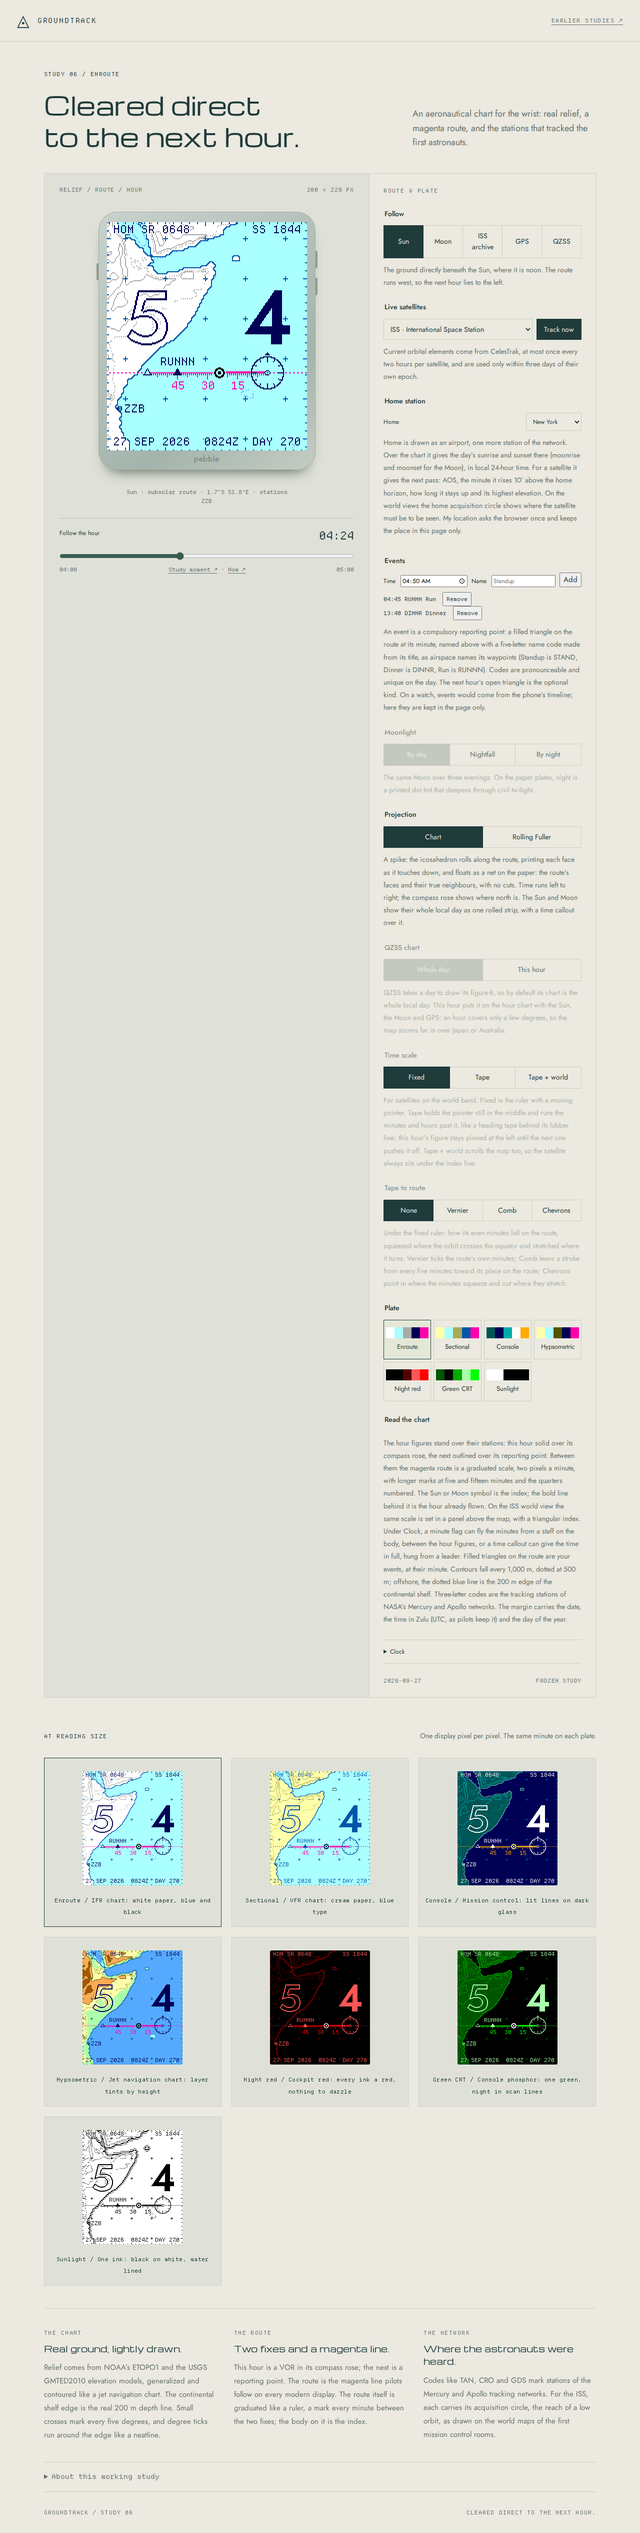
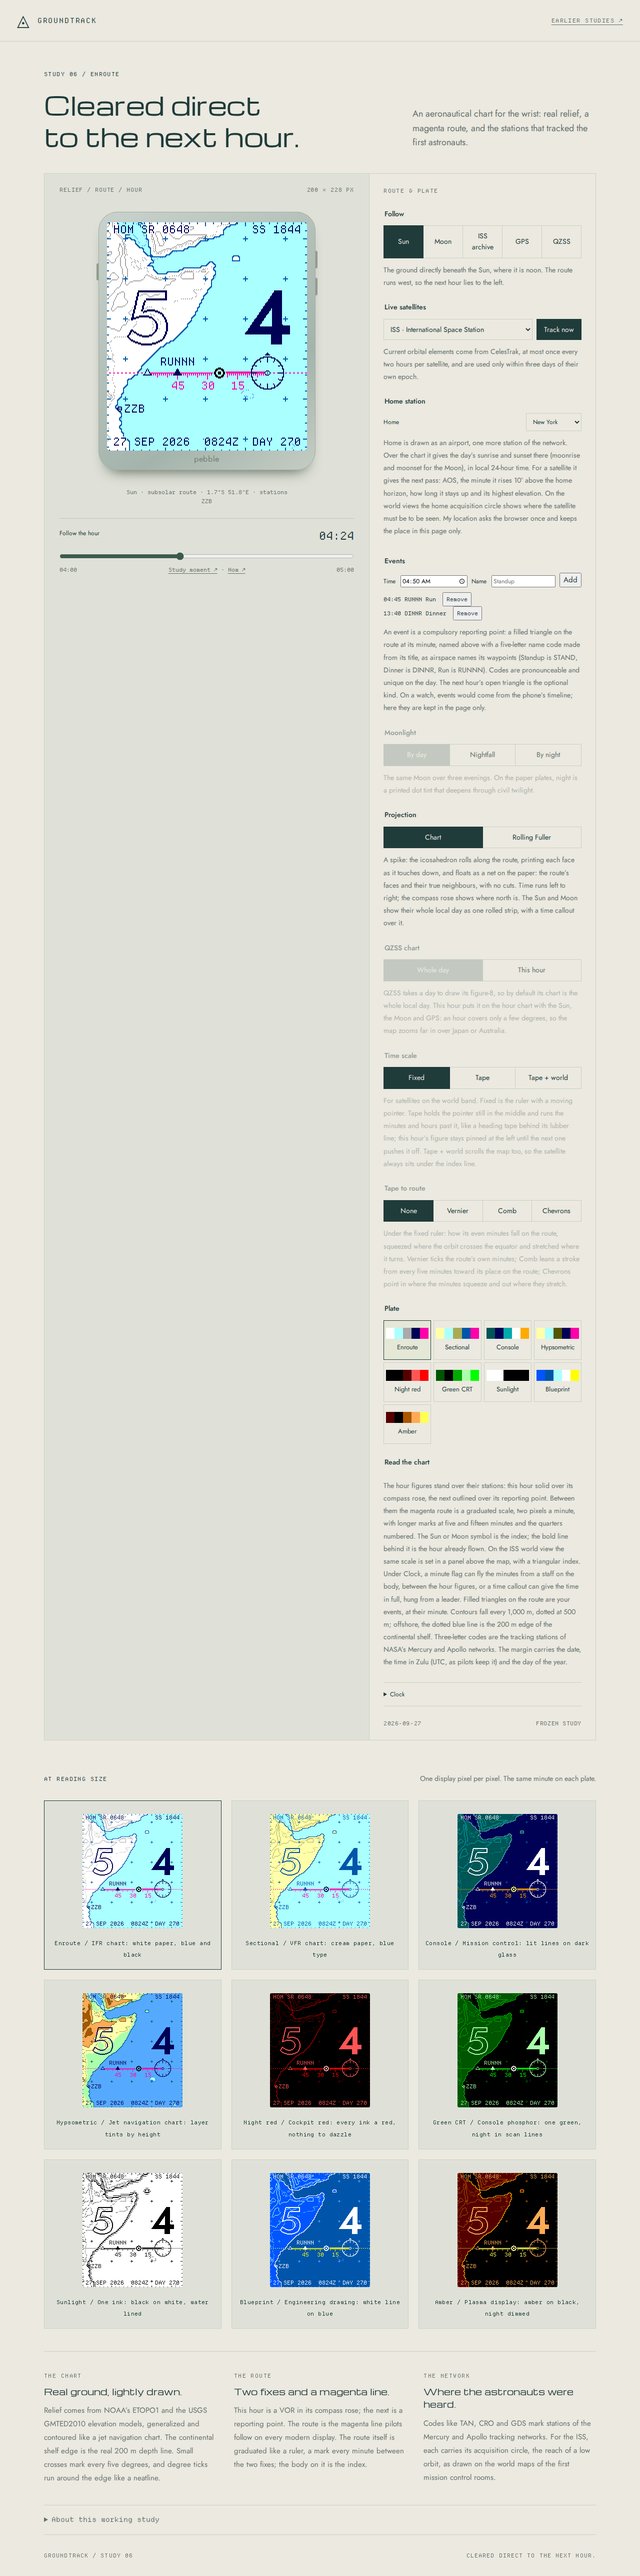
Two more plates: Blueprint and Amber
Blueprint is an engineer's drawing: white linework on a mid blue, land a
lighter blue than the sea, pale cyan contours, the route in yellow
pencil; night deepens the blues. Amber is a plasma display: amber at a
few brightnesses on black, night dimming every ink a step (dusk
dithered between) with the terminator drawn, unlike Night red's dots
or Green CRT's scan lines. Both use the existing plate machinery, so the
watch takes them from tables.bin with no new code; the study keeps 12
scenes (it shows a proof of every plate). tools/render-matrix.mjs draws
every configuration against every plate in one sheet.

diff --git a/src/plates.js b/src/plates.js
@@ -54,7 +54,22 @@ export const PLATES={
     water:inks(['#FFFFFF','#FFFFFF','#FFFFFF']),land:inks(['#FFFFFF','#FFFFFF','#FFFFFF']),coast:inks(['#000000','#000000','#000000']),
     contour:inks(['#000000','#000000','#000000']),shelf:inks(['#000000','#000000','#000000']),grid:inks(['#000000','#000000','#000000']),
     route:inks(['#000000','#000000','#000000']),ink:inks(['#000000','#000000','#000000']),mark:inks(['#000000','#000000','#000000']),
-    screen:hex('#000000'),space:hex('#FFFFFF'),spaceInk:hex('#000000')}
+    screen:hex('#000000'),space:hex('#FFFFFF'),spaceInk:hex('#000000')},
+  // An engineer's blueprint: white linework on a mid blue, land a lighter
+  // blue than the sea, the route in a yellow pencil; night deepens the blue.
+  blueprint:{name:'Blueprint',note:'Engineering drawing: white line on blue',night:'zones',terminator:hex('#AAFFFF'),
+    water:inks(['#0055AA','#0000AA','#000055']),land:inks(['#0055FF','#0055AA','#0000AA']),coast:inks(['#FFFFFF','#FFFFFF','#AAFFFF']),
+    contour:inks(['#AAFFFF','#55AAFF','#55AAFF']),shelf:inks(['#55AAFF','#0055FF','#0055AA']),grid:inks(['#55AAFF','#0055FF','#0055AA']),
+    route:inks(['#FFFF00','#FFFF00','#FFFF55']),ink:inks(['#FFFFFF','#FFFFFF','#FFFFFF']),mark:inks(['#FFFFFF','#FFFFFF','#FFFFFF']),
+    space:hex('#000055'),spaceInk:hex('#FFFFFF')},
+  // The amber of plasma and early flight displays: amber at a few
+  // brightnesses on black; night dims every ink a step, dusk dithered
+  // between, with the terminator drawn.
+  amber:{name:'Amber',note:'Plasma display: amber on black, night dimmed',night:'zones',terminator:hex('#FFAA00'),
+    water:inks(['#000000','#000000','#000000']),land:inks(['#550000','#550000','#000000']),coast:inks(['#FFAA00','#AA5500','#AA5500']),
+    contour:inks(['#AA5500','#550000','#550000']),shelf:inks(['#550000','#550000','#550000']),grid:inks(['#AA5500','#550000','#550000']),
+    route:inks(['#FFFF55','#FFFF55','#FFAA00']),ink:inks(['#FFAA55','#FFAA55','#FFAA00']),mark:inks(['#FFFFAA','#FFFFAA','#FFFFAA']),
+    space:hex('#000000'),spaceInk:hex('#FFAA00')}
 };
 // Contours in meters; the lowest is dotted, as an intermediate contour.
 export const CONTOURS=[500,1000,2000,3000,4000,5000],SHELF=-200;

diff --git a/src/core.js b/src/core.js
@@ -11,7 +11,7 @@ import network from '../data/tracking-stations.json' with {type:'json'};
 import {localDate} from './chart-text.js';
 import {SCALE} from './plates.js';
 
-export const W=200,H=228,SLOTS=8;
+export const W=200,H=228,SLOTS=12;
 // core_layout's order (native/host/core_api.c).
 const LAYOUT=['scene_size','point_size','minute_size','flags','body','view','forward','hour_start','heavy','fuller','zulu_x','zulu_baseline','top_x','top_baseline','height_right','height_baseline',
   'tape_x0','tape_x1','tape_baseline','tape_lo','tape_hi','home_x','home_y','home_box','mark_count','callout_left','callout_top','callout_bottom','hour_text','numerals',

diff --git a/native/host/core_api.h b/native/host/core_api.h
@@ -19,7 +19,7 @@ void core_source(int kind,const uint8_t *data,size_t length);
 // Builds the hour from the input text (src/chart-input.js: key value
 // lines, segments as hex) into one of CORE_SLOTS scenes, freeing what that
 // slot held. 1 on success.
-#define CORE_SLOTS 8
+#define CORE_SLOTS 12
 int core_build(const char *text,size_t length,int slot);
 // Why the last build failed.
 const char *core_failure(void);

diff --git a/README.md b/README.md
@@ -15,7 +15,7 @@ npm ci
 npm run dev
 ```
 
-Open the URL printed by Vite. **Study 06 — Enroute** is the default. It draws in the language of aeronautical charts and 1960s mission control plotboards: contour relief and the continental shelf edge from public-domain elevation data, a graticule with neatline ticks, and the magenta route. A VOR compass rose marks this hour and a reporting point the next, and the route itself is graduated like a ruler, a mark every minute between the two hour figures. Mercury and Apollo tracking stations appear with their network codes, a home station (an airport symbol) gives the day's sunrise and sunset or a satellite's next pass overhead, and events stand on the route as compulsory reporting points. The margins carry the local date, Zulu time and the day of the year. Seven plates are provided: Enroute (IFR white), Sectional (VFR cream), Console (mission control), Hypsometric (layer tints by height), Night red (cockpit red), Green CRT (console phosphor) and Sunlight (black on white only). Seven satellites can be tracked live from CelesTrak element sets: ISS, Tiangong, Hubble, Landsat 9, NOAA-20, GPS BIIF-1 and QZS-2. GPS and QZSS, slow orbits, also have nominal study orbits: GPS on the hour chart, QZSS's daily figure-8 on a whole-day chart. [The Study 06 notes](docs/STUDY-06.md) describe each symbol, the data and the exploration.
+Open the URL printed by Vite. **Study 06 — Enroute** is the default. It draws in the language of aeronautical charts and 1960s mission control plotboards: contour relief and the continental shelf edge from public-domain elevation data, a graticule with neatline ticks, and the magenta route. A VOR compass rose marks this hour and a reporting point the next, and the route itself is graduated like a ruler, a mark every minute between the two hour figures. Mercury and Apollo tracking stations appear with their network codes, a home station (an airport symbol) gives the day's sunrise and sunset or a satellite's next pass overhead, and events stand on the route as compulsory reporting points. The margins carry the local date, Zulu time and the day of the year. Nine plates are provided: Enroute (IFR white), Sectional (VFR cream), Console (mission control), Hypsometric (layer tints by height), Night red (cockpit red), Green CRT (console phosphor), Sunlight (black on white only), Blueprint (white line on blue) and Amber (plasma display). Seven satellites can be tracked live from CelesTrak element sets: ISS, Tiangong, Hubble, Landsat 9, NOAA-20, GPS BIIF-1 and QZS-2. GPS and QZSS, slow orbits, also have nominal study orbits: GPS on the hour chart, QZSS's daily figure-8 on a whole-day chart. [The Study 06 notes](docs/STUDY-06.md) describe each symbol, the data and the exploration.
 
 **Study 05** remains at `/study-05.html`: the flat north-up chart that salvaged the earlier studies ([notes](docs/STUDY-05.md)). **Study 04** remains at `/study-04.html`: Shorelight, with shallow relief monuments and spatial color mixing. **Study 03** remains at `/study-03.html`: a two-ink repeated Fuller atlas with geographic context. **Study 02** remains at `/study-02.html`: rounded hour towers above a perspective globe. **Study 01** remains at `/study-01.html`: the initial landscape, oblique and globe exploration. All six studies stay frozen until you interact. No location or motion sensor is used.
 

diff --git a/docs/STORE-LISTING-PLOTBOARD.md b/docs/STORE-LISTING-PLOTBOARD.md
@@ -17,6 +17,6 @@ The tracking stations of NASA's Mercury and Apollo networks mark the map, each w
 
 Contour relief, the continental shelf and the coastline come from public-domain elevation data, stored on the watch without loss, and the calculated Sun brings the night across the band.
 
-The time scale can be a fixed ruler with a moving pointer, a tape that runs past a still pointer, or the tape with the world scrolling under it. Under the ruler, an optional vernier, comb or chevrons shows how its even minutes fall on the orbit, bunched where it crosses the equator and spread where it turns. Seven plates, from paper charts to a green console screen; events on the route as reporting points.
+The time scale can be a fixed ruler with a moving pointer, a tape that runs past a still pointer, or the tape with the world scrolling under it. Under the ruler, an optional vernier, comb or chevrons shows how its even minutes fall on the orbit, bunched where it crosses the equator and spread where it turns. Nine plates, from paper charts to blueprint blue and green or amber screens; events on the route as reporting points.
 
 Orbits come from CelesTrak through the phone, a few days ahead, so the face keeps going without it. Requires Pebble Time 2. Not for navigation. Source code is on GitHub.

diff --git a/docs/STORE-LISTING-FULLER.md b/docs/STORE-LISTING-FULLER.md
@@ -15,6 +15,6 @@ The Earth unfolded as Buckminster Fuller unfolded it, rolled along the route. Th
 
 The hour is set along the route as on an aeronautical chart: a compass rose turned to true north, the next hour's reporting point, minute graduations and the hour's figures. The tracking stations that can hear the satellite this hour are marked with their circles, and home has its own.
 
-Contour relief, the continental shelf and the coastline come from public-domain elevation data, pre-projected onto every face of the icosahedron and stored on the watch, and the calculated Sun brings the night across the net. Seven plates, from paper charts to a green console screen; a minute flag or a time callout; events on the route as reporting points.
+Contour relief, the continental shelf and the coastline come from public-domain elevation data, pre-projected onto every face of the icosahedron and stored on the watch, and the calculated Sun brings the night across the net. Nine plates, from paper charts to blueprint blue and green or amber screens; a minute flag or a time callout; events on the route as reporting points.
 
 Orbits come from CelesTrak through the phone, a few days ahead, so the face keeps going without it. Requires Pebble Time 2. Not for navigation. Source code is on GitHub.

diff --git a/docs/STUDY-06.md b/docs/STUDY-06.md
@@ -85,6 +85,8 @@ Tests check the following:
 | **Night red** | red cockpit lighting | outlines on black; night dotted, with a dashed terminator | dark red contours | light red | red |
 | **Green CRT** | mission control console phosphor | green land on black; night in scan lines, with a dashed terminator | green contours and coast | pale green | green |
 | **Sunlight** | one-color chart, for bright sun | white, with coastal waterlines on the zoomed charts | dotted black contours | black | black, cased in white; heavier on the Fuller sheets |
+| **Blueprint** | an engineer's blueprint | light blue land on mid-blue water; night deepens the blues, with a dashed terminator | pale cyan contours, white coast | white | yellow |
+| **Amber** | plasma and early flight displays | dark amber land on black; night dims every ink a step, with a dashed terminator | amber contours and coast | light amber | pale yellow |
 
 ## Data
 

diff --git a/docs/STORE-LISTING.md b/docs/STORE-LISTING.md
@@ -17,7 +17,7 @@ Contour relief, the continental shelf and the coastline come from public-domain 
 
 A home station gives the day's sunrise and sunset, or the satellite's next pass overhead. The margins carry the local date, Zulu time and the day of the year.
 
-Seven plates: Enroute, Sectional, Console, Hypsometric, Night red, Green CRT and Sunlight.
+Nine plates: Enroute, Sectional, Console, Hypsometric, Night red, Green CRT, Sunlight, Blueprint and Amber.
 
 The watch draws each hour's chart itself and repaints only what moves each minute. The phone sends the Sun and Moon weeks ahead, and a satellite's orbit a few days ahead, so the face keeps going without it.
 
